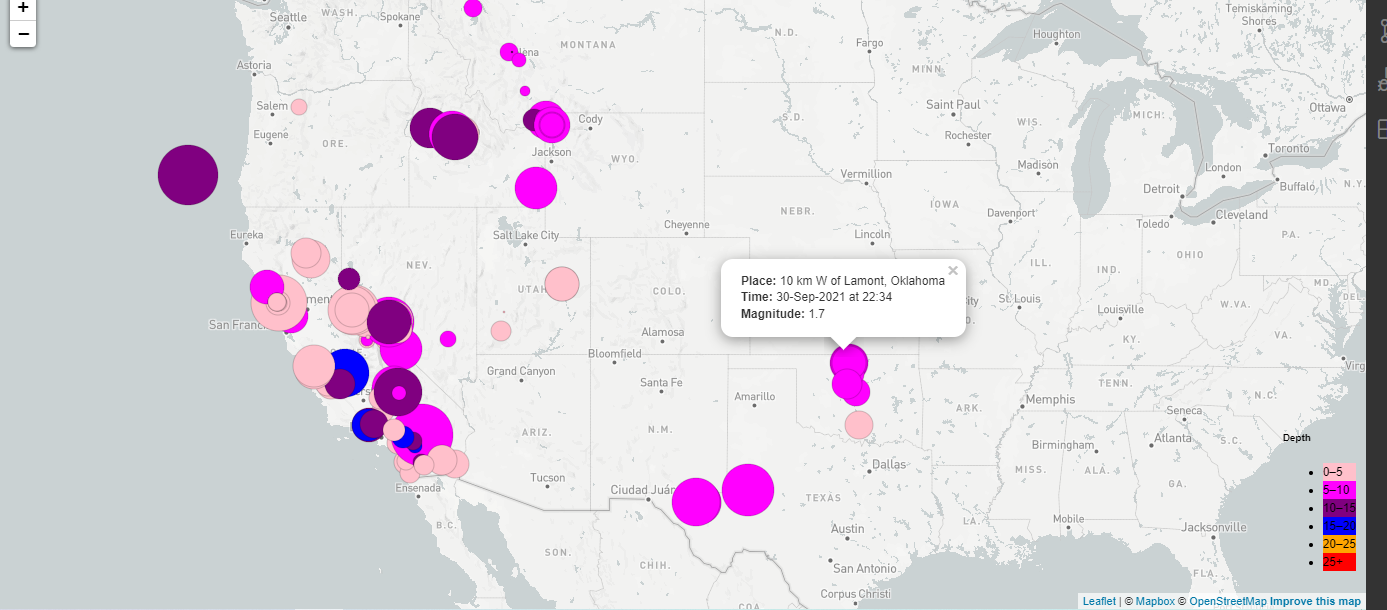
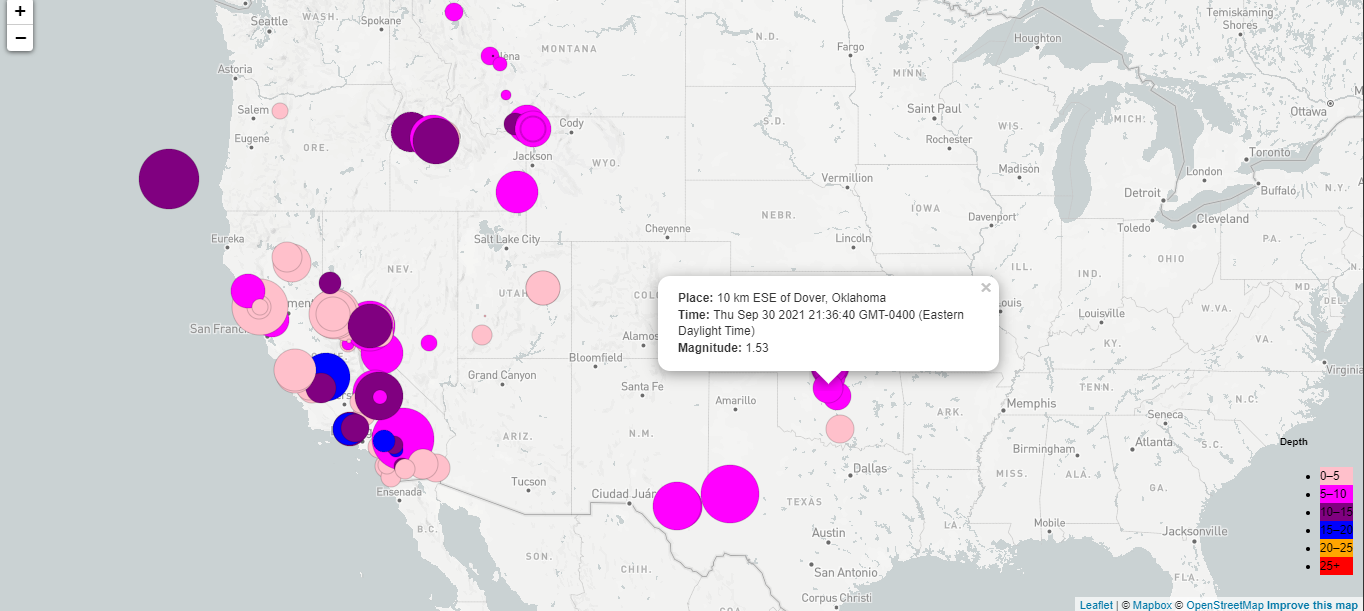
final

diff --git a/static/js/logic1.js b/static/js/logic1.js
@@ -8,10 +8,10 @@ d3.json(queryUrl).then(function (data) {
   createMap(data.features);
 });
 
-// define the createMap function
+// define the createMap function and parameters
 function createMap(response) {
 
-    // Initial parameters to create map
+    
     var centerCoordinates = [39, -105];
     var mapZoom = 5;
 
@@ -21,7 +21,7 @@ function createMap(response) {
         zoom: mapZoom
     });
 
-    // Create the tile layer for map
+    // Create the tile layer 
     L.tileLayer("https://api.mapbox.com/styles/v1/{id}/tiles/{z}/{x}/{y}?access_token={accessToken}", {
         attribution: "© <a href='https://www.mapbox.com/about/maps/'>Mapbox</a> © <a href='http://www.openstreetmap.org/copyright'>OpenStreetMap</a> <strong><a href='https://www.mapbox.com/map-feedback/' target='_blank'>Improve this map</a></strong>",
         tileSize: 512,
@@ -34,7 +34,7 @@ function createMap(response) {
     // Create a GeoJSON layer 
     L.geoJSON(response, {
 
-        // use pointToLayer to create circle markers for each data's coordinates
+        // Create circle markers at locations
         pointToLayer: function(feature, latlng) {
             return L.circleMarker(latlng, {
                 radius: markerSize(feature.properties.mag),
@@ -46,17 +46,17 @@ function createMap(response) {
             });
         },
 
-        // Run the onEachFeature function once for each piece of data in the array
+        // Run the onEachFeature function 
         onEachFeature: onEachFeature
     }).addTo(myMap)
 
     // Binding a pop-up to each layer
     function onEachFeature(feature, layer) {
 
-        // date formatter for popup
+        
         var format = d3.timeFormat("%d-%b-%Y at %H:%M");
 
-        layer.bindPopup(`<strong>Place: </strong> ${feature.properties.place}<br><strong>Time: </strong>${format(new Date(feature.properties.time))}<br><strong>Magnitude: </strong>${feature.properties.mag}`);
+        layer.bindPopup(`<strong>Place: </strong> ${feature.properties.place}<br><strong>Time: </strong>${new Date(feature.properties.time)}<br><strong>Magnitude: </strong>${feature.properties.mag}`);
     };
 
     // Set up the legend
@@ -69,8 +69,7 @@ function createMap(response) {
 
         div.innerHTML = legendInfo;
 
-        // go through each magnitude item to label and color the legend
-        // push to labels array as list item
+        // loop through depth to label and color the legend
         for (var i = 0; i < depths.length; i++) {
             labels.push('<li style="background-color:' + circleColor(depths[i] + 1) + '"> <span>' + depths[i] + (depths[i + 1] ? '&ndash;' + depths[i + 1] + '' : '+') + '</span></li>');
         }
@@ -81,16 +80,16 @@ function createMap(response) {
         return div;
     };
 
-    // Adding legend to the map
+    // Add to map
     legend.addTo(myMap);
 
-}; // end createMap function
+}; 
 
-// Define a markerSize function that will give each city a different marker radius based on earthquake magnitude
+// Function to base radius size on magnitude
 function markerSize(magnitude) {
     return magnitude * 10;
 }
-//Function to base color on the depth of Earthquake
+//Function to change circle color depending on depth
 function circleColor(depth) {
     if (depth <5) {
         return "pink"
@@ -112,7 +111,7 @@ function circleColor(depth) {
     }
 };
 
-// Perform an API call to the USGS earthquakes API to get earthquake information. 
+// API call  
 d3.json(queryUrl, function(response) {
 
     // Call createMap with response.features
